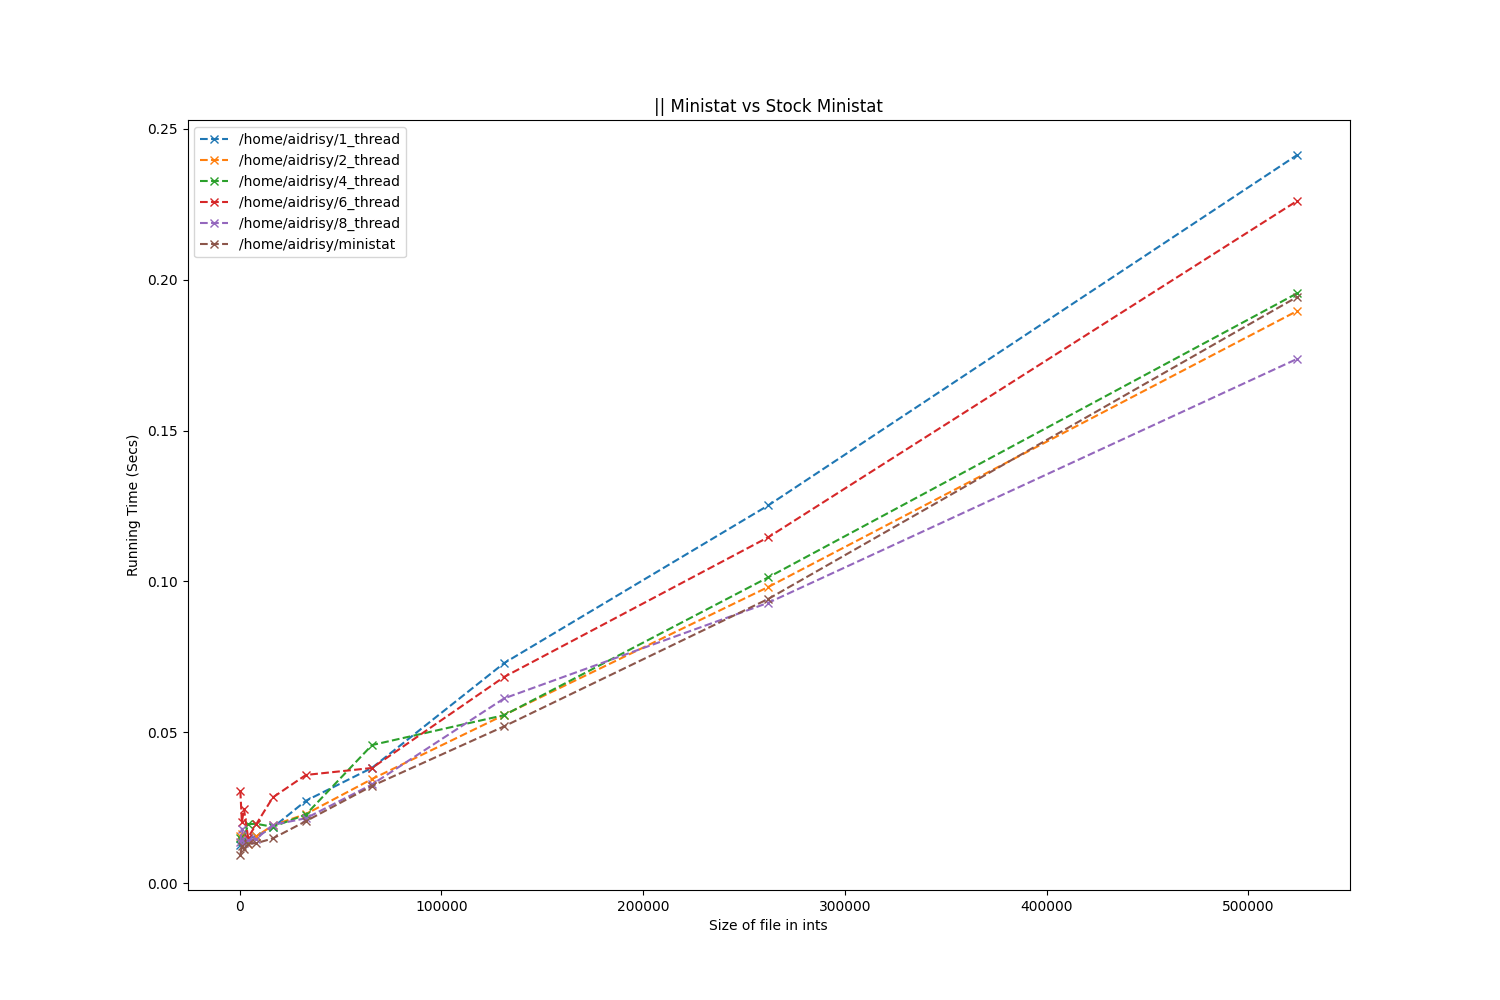
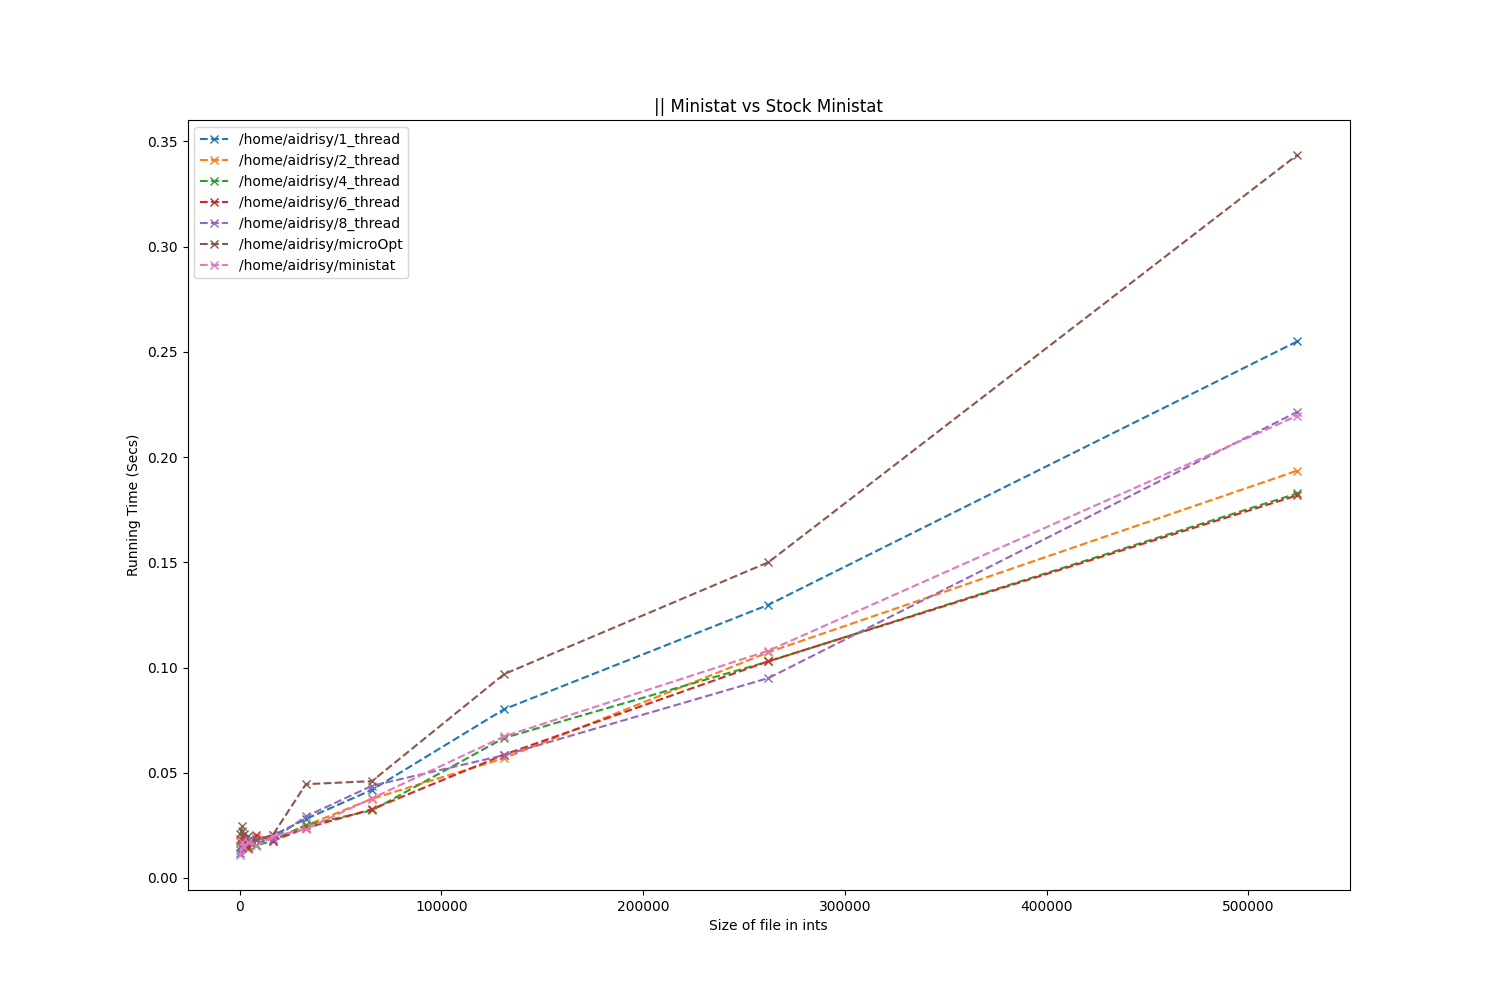
Remove printing

diff --git a/plot.py b/plot.py
@@ -8,10 +8,10 @@ results = {}
 def runInputDeck():
     global results
     ministatPaths = ["/home/aidrisy/1_thread","/home/aidrisy/2_thread","/home/aidrisy/4_thread",
-                    "/home/aidrisy/6_thread","/home/aidrisy/8_thread","/home/aidrisy/ministat"]
+                    "/home/aidrisy/6_thread","/home/aidrisy/8_thread","/home/aidrisy/microOpt",
+                    "/home/aidrisy/ministat"]
     inputFilesPath = "~/ccny59866/inputFiles"
         
-    execCount = 1000
     files = os.listdir("inputFiles")
     for path in ministatPaths:
         os.chdir(path)
@@ -56,13 +56,13 @@ def sortAndPlot():
     print(f"Difs = {diffs}")
 
     plt.figure(figsize=(15,10))
-    plt.title("|| Ministat vs Stock Ministat")
+    plt.title("||-Ministat vs µ-Ministat vs Stock-Ministat")
     plt.xlabel("Size of file in ints")
     plt.ylabel("Running Time (Secs)")
     for i in range(0,len(plotTimes)):
         plt.plot(keys,plotTimes[i],'x--',label=labels[i])
     plt.legend(loc="upper left")
-    plt.savefig("parallel_vs_stock.png")
+    plt.savefig("parallel_vs_micro_vs_stock.png")
 
 
 def main():
